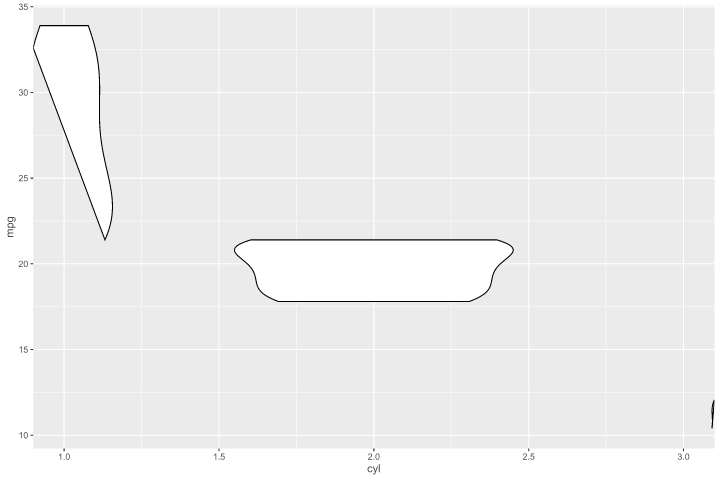
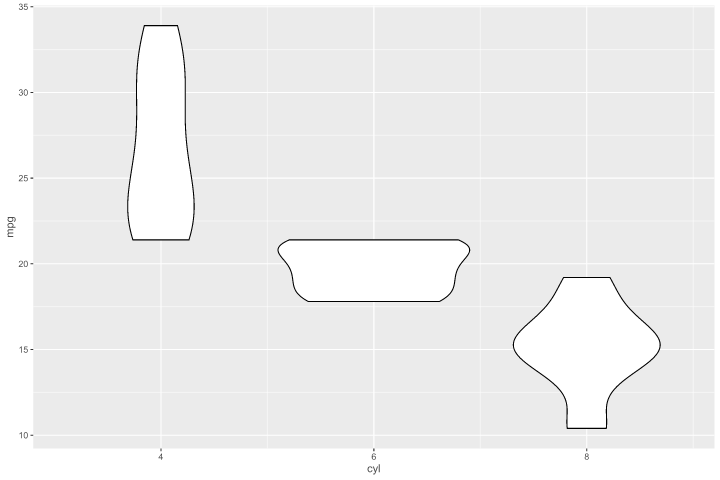
fix(stat): Ydensity 因子标签按 ordinal 反查行标签 — 48_violin 10.8->2.18%
- 根因: stat 在 ordinalise 之前运行, 标签按行序存; 此前按 (ordinal-1) 索引
  level 数组错位, x 退化连续 (1.0/1.5/2.0 刻度) + 组混叠成尖刺
- 修法: 对每个 ordinal 反查任一匹配行的 cat 标签 (行序≠level序), 并携带
  declared levels 让 2b ordinalise 正确离散化
- 识图确认: 三只小提琴形状/宽度/位置与 R 一致, 残差=轮廓 AA (2.18%)
- 48 图 mean 0.320% (原 46 图基线 ZERO-CHANGE), 31 测试

diff --git a/crates/jplot-core/src/stat.rs b/crates/jplot-core/src/stat.rs
@@ -270,6 +270,9 @@ pub fn compute_stat(f: &Frame, spec: &StatSpec) -> Frame {
         StatSpec::Ydensity { bw, adjust, n, trim: _trim, scale } => {
             let xs = f.get("x").cloned().unwrap_or_default();
             let ys = f.get("y").cloned().unwrap_or_default();
+            // factor labels keyed by the ordinal x values (stat runs BEFORE
+            // ordinalise; labels must survive, like StatBoxplot's set_cat)
+            let xcats: Option<Vec<String>> = f.cat.get("x").cloned();
             let mut out = Frame::new();
             // group by discrete x values (1-based ordinal already mapped)
             let mut uniq: Vec<f64> = xs.iter().cloned().filter(|v| v.is_finite()).collect();
@@ -315,10 +318,19 @@ pub fn compute_stat(f: &Frame, spec: &StatSpec) -> Frame {
             let mut vw: Vec<f64> = Vec::new();
             let mut gn: Vec<f64> = Vec::new();
             let mut wid: Vec<f64> = Vec::new();
+            let mut xlab: Vec<String> = Vec::new();
             for (ux, gx, gy, nn) in &per_group {
                 let nnf = *nn as f64;
                 for (j, &yv) in gy.iter().enumerate() {
                     xo.push(*ux);
+                    if let Some(cats) = &xcats {
+                        // label for this ordinal = the label on ANY input row
+                        // whose ordinal x matches (row order ≠ level order!)
+                        let lab = (0..xs.len())
+                            .find(|&i| (xs[i] - ux).abs() < 1e-9)
+                            .and_then(|i| cats.get(i).cloned());
+                        xlab.push(lab.unwrap_or_default());
+                    }
                     yo.push(gx[j]);
                     let w = match mode {
                         "count" => yv / gmax * (nnf / nmax),
@@ -335,6 +347,12 @@ pub fn compute_stat(f: &Frame, spec: &StatSpec) -> Frame {
             out.set("violinwidth", vw);
             out.set("n", gn);
             out.set("width", wid);
+            if !xlab.is_empty() {
+                out.set_cat("x", xlab);
+                if let Some(decl) = f.levels.get("x") {
+                    out.set_levels("x", decl.clone());
+                }
+            }
             out
         }
         StatSpec::Boxplot { coef } => {
